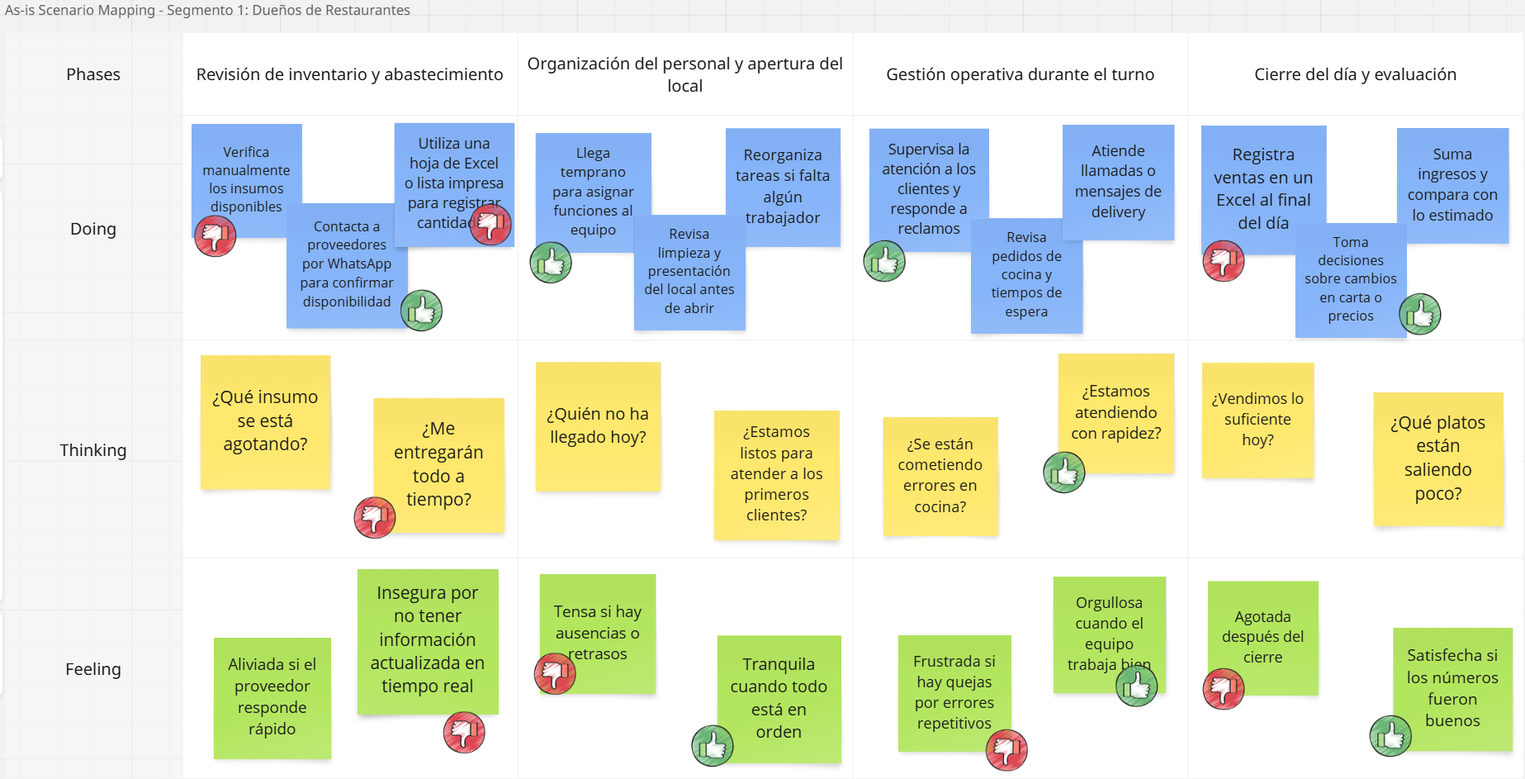
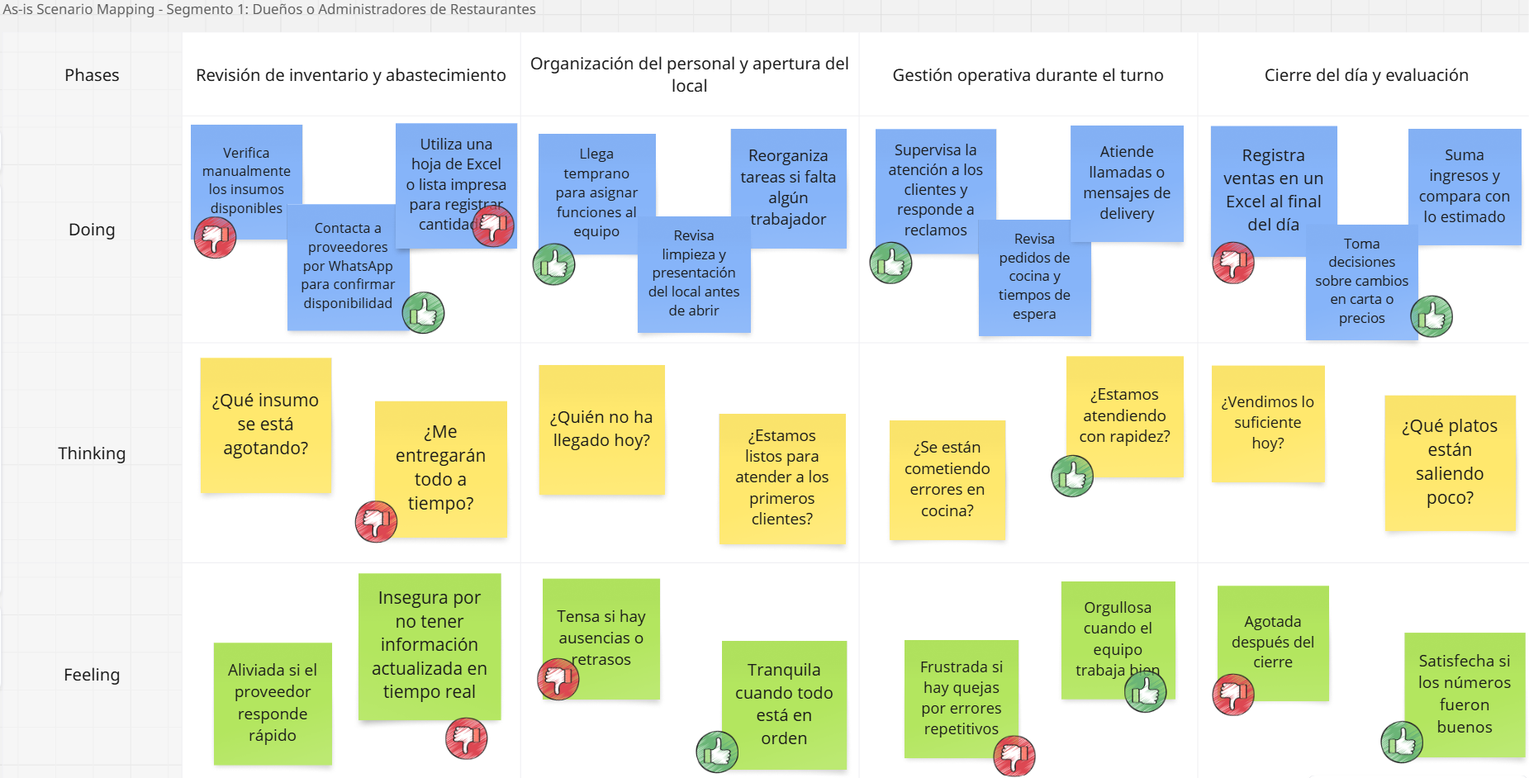
fix(cap2-as-is): change segment subtitle and change image

diff --git a/cap3-requirements-specification.md b/cap3-requirements-specification.md
@@ -2,7 +2,7 @@
 
 ## 3.1 To-Be Scenario Mapping
 
-**Segmento Objetivo 1:** Dueños de Restaurantes
+**Segmento Objetivo 1:** Dueños o Administradores de Restaurantes
 
 Este escenario To-Be fue construido tras una revisión detallada del escenario As-Is de Carolina Rivas y de las oportunidades de mejora identificadas a partir de las entrevistas. Se definieron las fases del proceso y se contrastaron con las actuales. Se priorizaron mejoras en eficiencia, control, automatización y reducción de frustraciones operativas.
 
@@ -35,7 +35,7 @@ Este escenario To-Be fue construido a partir del análisis del escenario As-Is d
 | EP-14 | Recepción y Gestión de Órdenes | Como proveedor, quiero recibir, visualizar y actualizar el estado de las órdenes realizadas por restaurantes,para organizar mis entregas, garantizar puntualidad y mantener una buena comunicación con mis clientes. |  |  |
 | EP-15 | Historial de Ventas y Acceso a Facturación para Proveedores | Como proveedor, quiero acceder a un historial detallado de mis ventas a cada restaurante, para poder descargar reportes de facturación e identificar a mis mejores clientes. |  |  |
 | EP-16 | Gestión de Proveedores | Como administrador de restaurante, quiero poder agregar, editar, visualizar y eliminar proveedores desde la plataforma, para tener un control eficiente de quiénes suministran los insumos y facilitar la comunicación. |  |  |
-| US-01 | Ver testimonios de clientes | Como visitante de la página de inicio, quiero leer testimonios de otros dueños de restaurantes y proveedores, para poder confiar en la plataforma antes de registrarme. | Escenario: Ver sección de testimonios <br> Dado que accedo a la sección de testimonios, <br> cuando me desplazo a esa parte de la página, <br> entonces veo al menos tres testimonios con nombre, rol y comentario. | EP-01 |
+| US-01 | Ver testimonios de clientes | Como visitante de la página de inicio, quiero leer testimonios de otros dueños o administradores de restaurantes y proveedores, para poder confiar en la plataforma antes de registrarme. | Escenario: Ver sección de testimonios <br> Dado que accedo a la sección de testimonios, <br> cuando me desplazo a esa parte de la página, <br> entonces veo al menos tres testimonios con nombre, rol y comentario. | EP-01 |
 | US-02 | Consultar Preguntas Frecuentes | Como usuario nuevo o potencial,quiero acceder a una lista de preguntas frecuentes, para poder resolver dudas sin necesidad de contactar al equipo de soporte. | Escenario 1: Expandir y contraer ítems del FAQ. <br> Dado que estoy en la sección de preguntas frecuentes, <br> Cuando selecciono en una pregunta, <br> Entonces debo visualizar la respuesta debajo, mientras que las otras preguntas permanecen contraídas. <br> Escenario 2: Diseño claro y organizado. <br> Dado que la sección de preguntas frecuentes incluye varias preguntas, <br> Cuando navego por la página, <br> Entonces cada pregunta debe ser fácil de ubicar y entender. | EP-01 |
 | US-03 | Enviar Formulario de Contacto | Como visitante, quiero enviar un formulario de contacto con mi nombre, correo electrónico y mensaje, para poder comunicarme con el equipo de la plataforma.  | Escenario 1: Envío exitoso del formulario <br> Dado que ingreso mi nombre, correo y mensaje válidos, <br> Cuando envío el formulario, <br> Entonces el sistema confirma la recepción con un mensaje de éxito y almacena la solicitud. <br> Escenario 2: Mensaje de confirmación <br> Dado que el formulario se ha enviado correctamente, <br> Cuando el sistema lo procesa, <br> Entonces veo un mensaje de confirmación claro. | EP-01 |
 | US-04 | Visualización de footer en landing page | Como visitante del sitio web<br>Quiero ver el footer con redes sociales, contacto y legales<br>Para acceder fácilmente a esa información | Scenario 1: Visualización de footer en todas las secciones <br> Dado que el visitante accede a la landing page <br> Cuandoel visitante navega a cualquier sección  <br>Entonces elfooter permanece visible al final con datos de contacto y enlaces <br> Scenario 2: Enlaces legales funcionales<br>Dado que el visitante ingresa al enlace 'Términos y Condiciones' <br> Cuando se carga la página<br>Entonces el visitante visualiza el contenido legal correspondiente | EP-01 |
@@ -43,7 +43,7 @@ Este escenario To-Be fue construido a partir del análisis del escenario As-Is d
 | US-06 | Visualización de pasos del funcionamiento | Como visitante, quiero que se muestren de manera visual y ordenada los pasos para usar la plataforma (máximo 4), para comprender rápidamente el flujo general. | Escenario 1: Visualización de pasos <br>Dado que el visitante ingresa al landing page, Cuando llega a la sección "Cómo funciona", Entonces se muestran como máximo 4 pasos numerados o con íconos, explicando claramente cada etapa del proceso. | EP-01 |
 | US-07 | Alternativa con video explicativo | Como visitante, quiero tener la opción de ver un video explicativo en esa misma sección, para entender el funcionamiento de forma visual y dinámica. | Escenario 1: Visualización de video explicativo <br>Dado que el visitante se encuentra en la sección de funcionamiento, Cuando se ofrece el video opcional, Entonces el visitante puede reproducir un video embebido sin salir de la página. | EP-01 |
 | US-08 | Mostrar Mensaje de Valor en la Sección Principal | Como visitante, quiero ver una propuesta de valor clara en la parte superior de la página de inicio, para poder entender de inmediato el propósito y los beneficios de la plataforma. | Escenario 1: Visibilidad y estructura del mensaje <br> Dado que abro la página de inicio, <br> Cuando la página carga, <br> Entonces debo ver un título y subtítulo que comuniquen el valor de la plataforma. <br> Escenario 2: Diseño responsivo <br> Dado que visualizo el sitio desde un dispositivo móvil o de escritorio, <br> Cuando se renderiza la sección principal, <br> Entonces el mensaje de valor debe permanecer legible y bien posicionado. | EP-01 |
-| US-09 | Mostrar Beneficios Segmentados por Tipo de Usuario | Como visitante, quiero ver beneficios adaptados a mi perfil (dueño de restaurante o proveedor), para entender cómo la plataforma me ayuda específicamente.  | Escenario 1: Dos secciones diferenciadas <br> Dado que me desplazo hasta la sección de beneficios, <br> Cuando visualizo el contenido, <br> Entonces debo ver un bloque para dueños de restaurantes y otro para proveedores. <br> Escenario 2: Compatibilidad móvil <br> Dado que accedo al sitio desde un teléfono, <br> Cuando me desplazo hasta esta sección, <br> Entonces el contenido segmentado debe ser legible y estar bien formateado. | EP-01 |
+| US-09 | Mostrar Beneficios Segmentados por Tipo de Usuario | Como visitante, quiero ver beneficios adaptados a mi perfil (dueño o administrador de restaurante, o proveedor), para entender cómo la plataforma me ayuda específicamente.  | Escenario 1: Dos secciones diferenciadas <br> Dado que me desplazo hasta la sección de beneficios, <br> Cuando visualizo el contenido, <br> Entonces debo ver un bloque para dueños o administradores de restaurantes y otro para proveedores. <br> Escenario 2: Compatibilidad móvil <br> Dado que accedo al sitio desde un teléfono, <br> Cuando me desplazo hasta esta sección, <br> Entonces el contenido segmentado debe ser legible y estar bien formateado. | EP-01 |
 | US-10 | Incluir Llamados a la Acción (CTA) con Redirección y Descarga | Como visitante, quiero acceder al login o a descargar la app, para poder comenzar a usar la plataforma rápidamente. | Escenario 1: Comportamiento del botón CTA <br> Dado que hay un llamado a la acción como "Probar ahora", <br> Cuando interactúo con él, <br> Entonces debo ser redirigido al login o a la aplicación web. <br> Escenario 2: Visibilidad de descarga de la app <br> Dado que me desplazo hasta la sección de descargas, <br> Cuando la sección se muestra en pantalla, <br> Entonces debo ver enlaces de descarga para Android, iOS o escritorio si está disponible. | EP-01 |
 | US-11 | Selector de idioma en landing page | Como visitante de la plataforma<br>Quiero cambiar entre inglés y español fácilmente<br>Para navegar con mayor comodidad | Scenario 1: Cambio de idioma <br> Dado que el idioma actual es españoll<br>Cuando el visitante selecciona 'English' desde el menú<br>Entonces el contenido se muestra completamente en inglés. <br>Scenario 2: Persistencia de idioma <br>  Dado que el visitante ha seleccionado un idioma<br>Cuando recarga o cambia de página<br>Entonces el sitio conserva el idioma elegido | EP-02 |
 | US-12 | Compatibilidad con lector de pantalla | Como visitante con discapacidad visual<br>Quiero navegar el sitio usando un lector de pantalla<br>Para acceder a toda la información del sistema | Scenario 1: Lectura de encabezados y botones <br> Dado que el visitante accede usando un lector<br>Cuando se posiciona sobre encabezados y botones <br>Entonces el lector anuncia correctamente su contenido y función <br> Scenario 2: Descripciones accesibles para imágenes <br> Dado que el sitio tiene imágenes con contenido <br> Cuando el lector las detecta <br> Entonces se leen las etiquetas alt descriptivas | EP-02 |
@@ -130,13 +130,13 @@ Este escenario To-Be fue construido a partir del análisis del escenario As-Is d
 | # Orden | User Story Id | Título                                                                                | Descripción                                                                                                                                                                                                                                                     | Story Points |
 |---------|---------------|---------------------------------------------------------------------------------------|-----------------------------------------------------------------------------------------------------------------------------------------------------------------------------------------------------------------------------------------------------------------|--------------|
 | 1       | US-08         | Mostrar Mensaje de Valor en la Sección Principal                                      | Como visitante, quiero ver una propuesta de valor clara en la parte superior de la página de inicio, para poder entender de inmediato el propósito y los beneficios de la plataforma.                                                                           | 1            |
-| 2       | US-09         | Mostrar Beneficios Segmentados por Tipo de Usuario                                    | Como visitante, quiero ver beneficios adaptados a mi perfil (dueño de restaurante o proveedor), para entender cómo la plataforma me ayuda específicamente.                                                                                                      | 1            |
+| 2       | US-09         | Mostrar Beneficios Segmentados por Tipo de Usuario                                    | Como visitante, quiero ver beneficios adaptados a mi perfil (dueño o administradores de restaurante o proveedor), para entender cómo la plataforma me ayuda específicamente.                                                                                                      | 1            |
 | 3       | US-10         | Incluir Llamados a la Acción (CTA) con Redirección y Descarga                         | Como visitante, quiero acceder al login o a descargar la app, para poder comenzar a usar la plataforma rápidamente.                                                                                                                                             | 5            |
 | 4       | US-05         | Visualización de la barra de navegación                                               | Como visitante, quiero que la barra de navegación esté siempre visible en el landing page, para poder orientarme y acceder rápidamente a otras secciones.                                                                                                       | 3            |
 | 5       | US-06         | Visualización de pasos del funcionamiento                                             | Como visitante, quiero que se muestren de manera visual y ordenada los pasos para usar la plataforma (máximo 4), para comprender rápidamente el flujo general.                                                                                                  | 2            |
 | 6       | US-07         | Alternativa con video explicativo                                                     | Como visitante, quiero tener la opción de ver un video explicativo en esa misma sección, para entender el funcionamiento de forma visual y dinámica.                                                                                                            | 3            |
 | 7       | US-04         | Visualización de footer en landing page                                               | Como visitante del sitio web quiero ver el footer con redes sociales, contacto y legales para acceder fácilmente a esa información.                                                                                                                             | 3            |
-| 8       | US-01         | Ver testimonios de clientes                                                           | Como visitante de la página de inicio, quiero leer testimonios de otros dueños de restaurantes y proveedores, para poder confiar en la plataforma antes de registrarme.                                                                                         | 2            |
+| 8       | US-01         | Ver testimonios de clientes                                                           | Como visitante de la página de inicio, quiero leer testimonios de otros dueños o administradores de restaurantes y proveedores, para poder confiar en la plataforma antes de registrarme.                                                                                         | 2            |
 | 9       | US-02         | Consultar Preguntas Frecuentes                                                        | Como usuario nuevo o potencial,quiero acceder a una lista de preguntas frecuentes, para poder resolver dudas sin necesidad de contactar al equipo de soporte.                                                                                                   | 2            |
 | 10      | US-03         | Enviar Formulario de Contacto                                                         | Como visitante, quiero enviar un formulario de contacto con mi nombre, correo electrónico y mensaje, para poder comunicarme con el equipo de la plataforma.                                                                                                     | 5            |
 | 11      | US-16         | Navegación fluida entre secciones                                                     | Como visitante, quiero a cada sección desde la barra de navegación, para poder explorar el contenido sin desplazarme manualmente                                                                                                                                | 3            |

diff --git a/cap1-introduction.md b/cap1-introduction.md
@@ -227,7 +227,7 @@ Retención: retención del 60%
 1. **Creemos que** al proporcionar un sistema automatizado de gestión de inventario y pedidos para restaurantes, reduciremos la desorganización y el desperdicio de insumos.  
    **Sabremos que** hemos tenido éxito **cuando** los restaurantes reporten una disminución en la pérdida de productos y una mejora en la eficiencia operativa.  
 
-2. **Creemos que** al diseñar una plataforma intuitiva y fácil de usar, facilitaremos la adopción del sistema por parte de dueños de restaurantes y su personal.  
+2. **Creemos que** al diseñar una plataforma intuitiva y fácil de usar, facilitaremos la adopción del sistema por parte de dueños o administradores de restaurantes y su personal.  
    **Sabremos que** hemos tenido éxito **cuando** la mayoría de los usuarios completen la configuración inicial sin asistencia y registren un uso recurrente del sistema.  
 
 3. **Creemos que** al integrar herramientas de análisis y reportes en tiempo real, ayudaremos a los restaurantes a tomar decisiones estratégicas basadas en datos.  
@@ -244,7 +244,7 @@ Retención: retención del 60%
 | **3. Usuarios y Clientes** |           | **4. Beneficios del usuario** | 
 | - Dueños o administradores de Restaurantes:  Dueños o administradores de restaurantes en Lima, con edades entre 20 y 60 años que buscan optimizar la gestión de sus establecimientos.<br><br> - Proveedores para Restaurantes: Proveedores de alimentos, bebidas y utensilios que abastecen a restaurantes en Lima y otras ciudades. |    | - Control de inventario más preciso y actualizado.<br>- Reducción de pérdidas por sobrestock o faltantes.<br>- Procesos más rápidos y automatizados.<br>- Toma de decisiones basadas en datos reales.<br>- Menor dependencia de llamadas, mensajes y papel.<br>- Comunicación clara y directa entre restaurante y proveedor. |
 | **6. Hipótesis** | **7. ¿Qué es lo más importante que necsitamos aprender primero?** | **8. ¿Cuál es la menor cantidad de trabajo que necesitamos hacer para resolver las dudas y para hacer siguiente más importante?** | 
-| <br>- Creemos que la reducción del desperdicio de insumos se logrará si los restaurantes logran optimizar su inventario con la siguiente función: un sistema automatizado de gestión de inventarios y pedidos.<br><br>- Creemos que la adopción del sistema se logrará si los dueños de restaurantes y su personal logran completar la configuración inicial sin asistencia con la siguiente función: una plataforma intuitiva y fácil de usar.<br><br> - Creemos que la mejora en la rentabilidad de los restaurantes se logrará si los usuarios logran tomar decisiones estratégicas basadas en datos con la siguiente función: herramientas de análisis y reportes en tiempo real.<br><br>- Creemos que la reducción en los tiempos de espera en el abastecimiento se logrará si los restaurantes logran mejorar la disponibilidad de insumos con la siguiente función: la conexión entre restaurantes y proveedores dentro de la plataforma. | - Si el sistema no es capaz de integrar de manera eficiente los datos de inventarios, los dueños de restaurantes no confiarán en su capacidad para reducir el desperdicio de insumos.<br><br> - Si el sistema es difícil de usar o requiere una curva de aprendizaje larga, los dueños de restaurantes no lo adoptarán y no lo utilizarán regularmente.<br><br> - Si los reportes y análisis de datos no son claros y fáciles de interpretar, los usuarios no tomarán decisiones basadas en esos datos, lo que impedirá que la rentabilidad mejore.<br><br> - Si los proveedores no están dispuestos o no pueden integrarse al sistema, los tiempos de espera no se reducirán y la mejora en la gestión de pedidos no ocurrirá. |<br> - Entrevistas y Encuestas a Usuarios: Realizar entrevistas con dueños de restaurantes y proveedores para comprender mejor sus necesidades, percepciones y expectativas sobre el sistema.<br><br> - Pruebas de Usabilidad con Prototipos: Crear un prototipo funcional de la plataforma y realizar pruebas de usabilidad con usuarios reales (dueños de restaurantes y personal).<br><br> - Realizar una prueba piloto en un pequeño grupo de restaurantes: Seleccionar algunos restaurantes interesados para que usen el sistema durante un tiempo limitado.   |
+| <br>- Creemos que la reducción del desperdicio de insumos se logrará si los restaurantes logran optimizar su inventario con la siguiente función: un sistema automatizado de gestión de inventarios y pedidos.<br><br>- Creemos que la adopción del sistema se logrará si los dueños o administradores de restaurantes y su personal logran completar la configuración inicial sin asistencia con la siguiente función: una plataforma intuitiva y fácil de usar.<br><br> - Creemos que la mejora en la rentabilidad de los restaurantes se logrará si los usuarios logran tomar decisiones estratégicas basadas en datos con la siguiente función: herramientas de análisis y reportes en tiempo real.<br><br>- Creemos que la reducción en los tiempos de espera en el abastecimiento se logrará si los restaurantes logran mejorar la disponibilidad de insumos con la siguiente función: la conexión entre restaurantes y proveedores dentro de la plataforma. | - Si el sistema no es capaz de integrar de manera eficiente los datos de inventarios, los dueños o administradores de restaurantes no confiarán en su capacidad para reducir el desperdicio de insumos.<br><br> - Si el sistema es difícil de usar o requiere una curva de aprendizaje larga, los dueños o administradores de restaurantes no lo adoptarán y no lo utilizarán regularmente.<br><br> - Si los reportes y análisis de datos no son claros y fáciles de interpretar, los usuarios no tomarán decisiones basadas en esos datos, lo que impedirá que la rentabilidad mejore.<br><br> - Si los proveedores no están dispuestos o no pueden integrarse al sistema, los tiempos de espera no se reducirán y la mejora en la gestión de pedidos no ocurrirá. |<br> - Entrevistas y Encuestas a Usuarios: Realizar entrevistas con dueños o administradores de restaurantes y proveedores para comprender mejor sus necesidades, percepciones y expectativas sobre el sistema.<br><br> - Pruebas de Usabilidad con Prototipos: Crear un prototipo funcional de la plataforma y realizar pruebas de usabilidad con usuarios reales (dueños o administradores de restaurantes y personal).<br><br> - Realizar una prueba piloto en un pequeño grupo de restaurantes: Seleccionar algunos restaurantes interesados para que usen el sistema durante un tiempo limitado.   |
 
 ## 1.3 Segmentos objetivos
 

diff --git a/cap2-requirements-elicitation-and-analysis.md b/cap2-requirements-elicitation-and-analysis.md
@@ -104,7 +104,7 @@ UI-Topic surge como una solución enfocada y especializada en la **gestión auto
 10. ¿Ha experimentado problemas con pagos o facturación en su relación con los restaurantes?  
 11. ¿Qué tan abierto estaría a utilizar una plataforma digital para mejorar la gestión de sus pedidos y relaciones comerciales? 
 12. ¿Qué tipo de dispositivos tecnológicos utiliza para gestionar su restaurante? ¿Hay marcas,  modelos de negocio o referentes que influyen en su forma de administrar? 
-13. ¿Cómo maneja la comunicación con los dueños de restaurantes para asegurar la calidad y puntualidad de las entregas?  
+13. ¿Cómo maneja la comunicación con los dueños o administradores de restaurantes para asegurar la calidad y puntualidad de las entregas?  
 
 
 ### 2.2.2 Registro de entrevistas
@@ -190,7 +190,7 @@ Amparo está **totalmente dispuesta a invertir** en un software que le permita a
 **Resumen:**
 El señor José Santos Tapia Bustamante es proveedor de abarrotes, productos de limpieza y licores. Tiene 68 años y reside en el distrito de Chorrillos. Se caracteriza por ser una persona responsable, comprometida con sus clientes y con gran experiencia en el rubro.
 
-Cuenta con 38 años de trayectoria como proveedor y suele establecer relaciones comerciales directamente con los dueños de restaurantes, ya sea por recomendaciones o por contacto presencial.
+Cuenta con 38 años de trayectoria como proveedor y suele establecer relaciones comerciales directamente con los dueños o administradores de restaurantes, ya sea por recomendaciones o por contacto presencial.
 
 Realiza la gestión de pedidos de forma manual, revisando cada producto antes del envío para asegurarse de que el pedido esté completo. Utiliza WhatsApp como principal canal de comunicación para coordinar con los restaurantes.
 
@@ -288,7 +288,7 @@ Se analizaron **3 entrevistas** a proveedores de productos para restaurantes (ab
 | Uso de WhatsApp para pedidos                  | 3/3     | 100%  | Mencionan WhatsApp como canal primario para recibir pedidos                                 |
 | Manejo logístico manual o con supervisores   | 2/3     | 66.7% | No usan plataformas; dependen de listas físicas y personal de reparto                      |
 | No utilizan plataformas digitales especializadas | 2/3  | 66.7% | Uno menciona tener app, los otros usan WhatsApp y gestión manual                           |
-| Trato directo con dueños de restaurante      | 3/3     | 100%  | Priorizan relaciones directas como parte de su estrategia comercial                         |
+| Trato directo con dueños o administradores de restaurante      | 3/3     | 100%  | Priorizan relaciones directas como parte de su estrategia comercial                         |
 | Apertura a digitalizar su operación          | 3/3     | 100%  | Dispuestos a adoptar apps si estas mejoran su gestión                                      |
 | Importancia de la confianza con el cliente    | 3/3     | 100%  | Señalan que la confianza es clave para continuidad y créditos                             |
 | Valoración de la puntualidad y cumplimiento   | 3/3     | 100%  | Mencionan cumplimiento de horario y entregas completas como vitales                        |
@@ -312,7 +312,7 @@ El manejo de facturas y pagos al crédito es visto como una parte vulnerable de 
 
 ### 2.3.1. User Personas
 
-En esta sección se presentan dos User Personas que representan los segmentos clave del proyecto: los Dueños de Restaurantes y los Proveedores para Restaurantes. Estos perfiles permiten comprender en profundidad las necesidades, motivaciones, frustraciones y comportamientos de los usuarios potenciales del sistema, el cual busca mejorar la gestión de inventarios, pedidos y relaciones comerciales en el sector gastronómico.
+En esta sección se presentan dos User Personas que representan los segmentos clave del proyecto: los Dueños o Administradores de Restaurantes y los Proveedores para Restaurantes. Estos perfiles permiten comprender en profundidad las necesidades, motivaciones, frustraciones y comportamientos de los usuarios potenciales del sistema, el cual busca mejorar la gestión de inventarios, pedidos y relaciones comerciales en el sector gastronómico.
 
 El User Persona **Carolina Rivas** representa a las administradoras y propietarias de restaurantes con trayectoria, principalmente medianos y grandes negocios ubicados en zonas urbanas de alta competencia. Carolina tiene amplia experiencia en la gestión operativa, y aunque ha intentado digitalizar procesos clave como el inventario o la facturación, se ha encontrado con soluciones poco intuitivas y difíciles de adaptar. Su motivación principal es lograr un control más riguroso de su inventario y aumentar la eficiencia general del negocio sin perder autonomía. Busca una plataforma accesible, personalizable y fácil de usar, que le permita mejorar la toma de decisiones operativas sin requerir soporte técnico constante.
 
@@ -380,7 +380,7 @@ En esta sección se presentan los User Journey Maps (As-Is) de los segmentos rep
 
 ### 2.3.5 As-is Scenario Mapping
 
-**Segmento Objetivo 1:** Dueños de Restaurantes
+**Segmento Objetivo 1:** Dueños o Administradores de Restaurantes
 
 El siguiente escenario As-Is fue desarrollado a partir de entrevistas y análisis de comportamiento del perfil de Carolina Rivas. Se identificaron las principales fases que conforman su flujo de trabajo diario como administradora de un restaurante
 

diff --git a/cap4-product-design.md b/cap4-product-design.md
@@ -54,7 +54,7 @@ El diseño de Restock se centra en una estrategia que aprovecha de manera inteli
 
 #### Dimensiones para el tono de comunicación y lenguaje aplicado
 
-En Restock, definimos cuidadosamente el tono de nuestra comunicación para alinearlo con la misión de nuestra plataforma: facilitar la gestión de inventarios para dueños de restaurantes y proveedores, creando una conexión cercana y empática con nuestro público objetivo. Nuestro tono de voz busca motivar y brindar seguridad, combinando una comunicación clara, accesible y profesional.
+En Restock, definimos cuidadosamente el tono de nuestra comunicación para alinearlo con la misión de nuestra plataforma: facilitar la gestión de inventarios para dueños o administradores de restaurantes y proveedores, creando una conexión cercana y empática con nuestro público objetivo. Nuestro tono de voz busca motivar y brindar seguridad, combinando una comunicación clara, accesible y profesional.
 
 Optamos por un tono casual pero respetuoso, que permita a los usuarios sentirse cómodos al interactuar con funcionalidades clave para el control y abastecimiento de sus negocios. Queremos que cada interacción refleje entusiasmo, para fomentar el compromiso con una gestión eficiente, pero también serenidad, asegurando que los usuarios mantengan el control y la confianza mientras usan la plataforma. Este equilibrio nos permite inspirar acción, al tiempo que proyectamos confianza y experiencia en el sector gastronómico y logístico.
 
@@ -64,7 +64,7 @@ Además, se han considerado los siguientes aspectos clave en el diseño de Resto
 
 - Navegación: La estructura de navegación ha sido pensada para ser intuitiva y ordenada. Los usuarios pueden acceder fácilmente a secciones como control de stock, historial de pedidos, comunicación con proveedores y reportes de abastecimiento. Los menús son claros y las opciones están organizadas para ahorrar tiempo y evitar complicaciones, facilitando la toma de decisiones en entornos exigentes como las cocinas de restaurantes o los centros de distribución.
 
-- Accesibilidad: La plataforma fue diseñada para adaptarse a todo tipo de usuarios y dispositivos. Desde computadoras hasta tablets o celulares, Restock ofrece botones grandes, opciones de ajuste de idioma, lector de texto y navegación simplificada, permitiendo a dueños de restaurantes y proveedores utilizar la plataforma incluso en ambientes dinámicos y de alta demanda.
+- Accesibilidad: La plataforma fue diseñada para adaptarse a todo tipo de usuarios y dispositivos. Desde computadoras hasta tablets o celulares, Restock ofrece botones grandes, opciones de ajuste de idioma, lector de texto y navegación simplificada, permitiendo a dueños o administradores de restaurantes y proveedores utilizar la plataforma incluso en ambientes dinámicos y de alta demanda.
 
 #### Elementos de diseño
 
